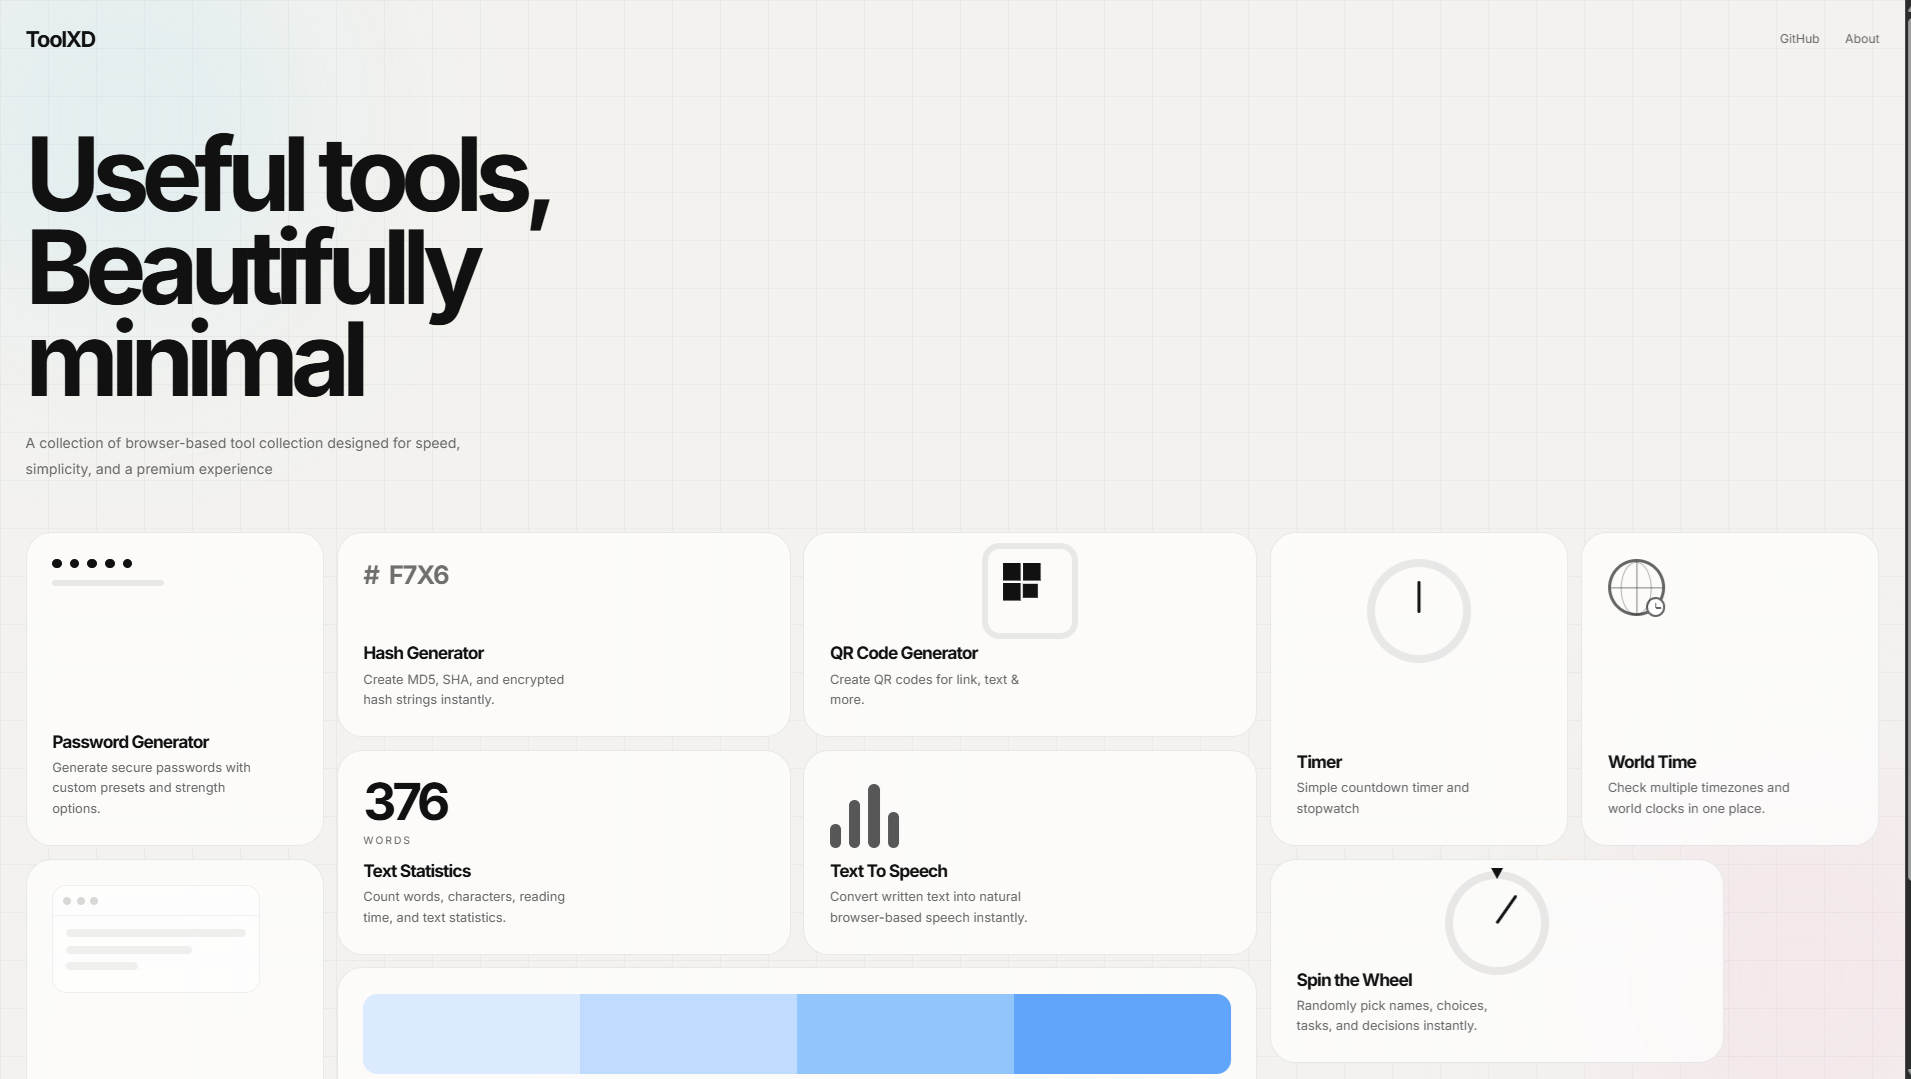
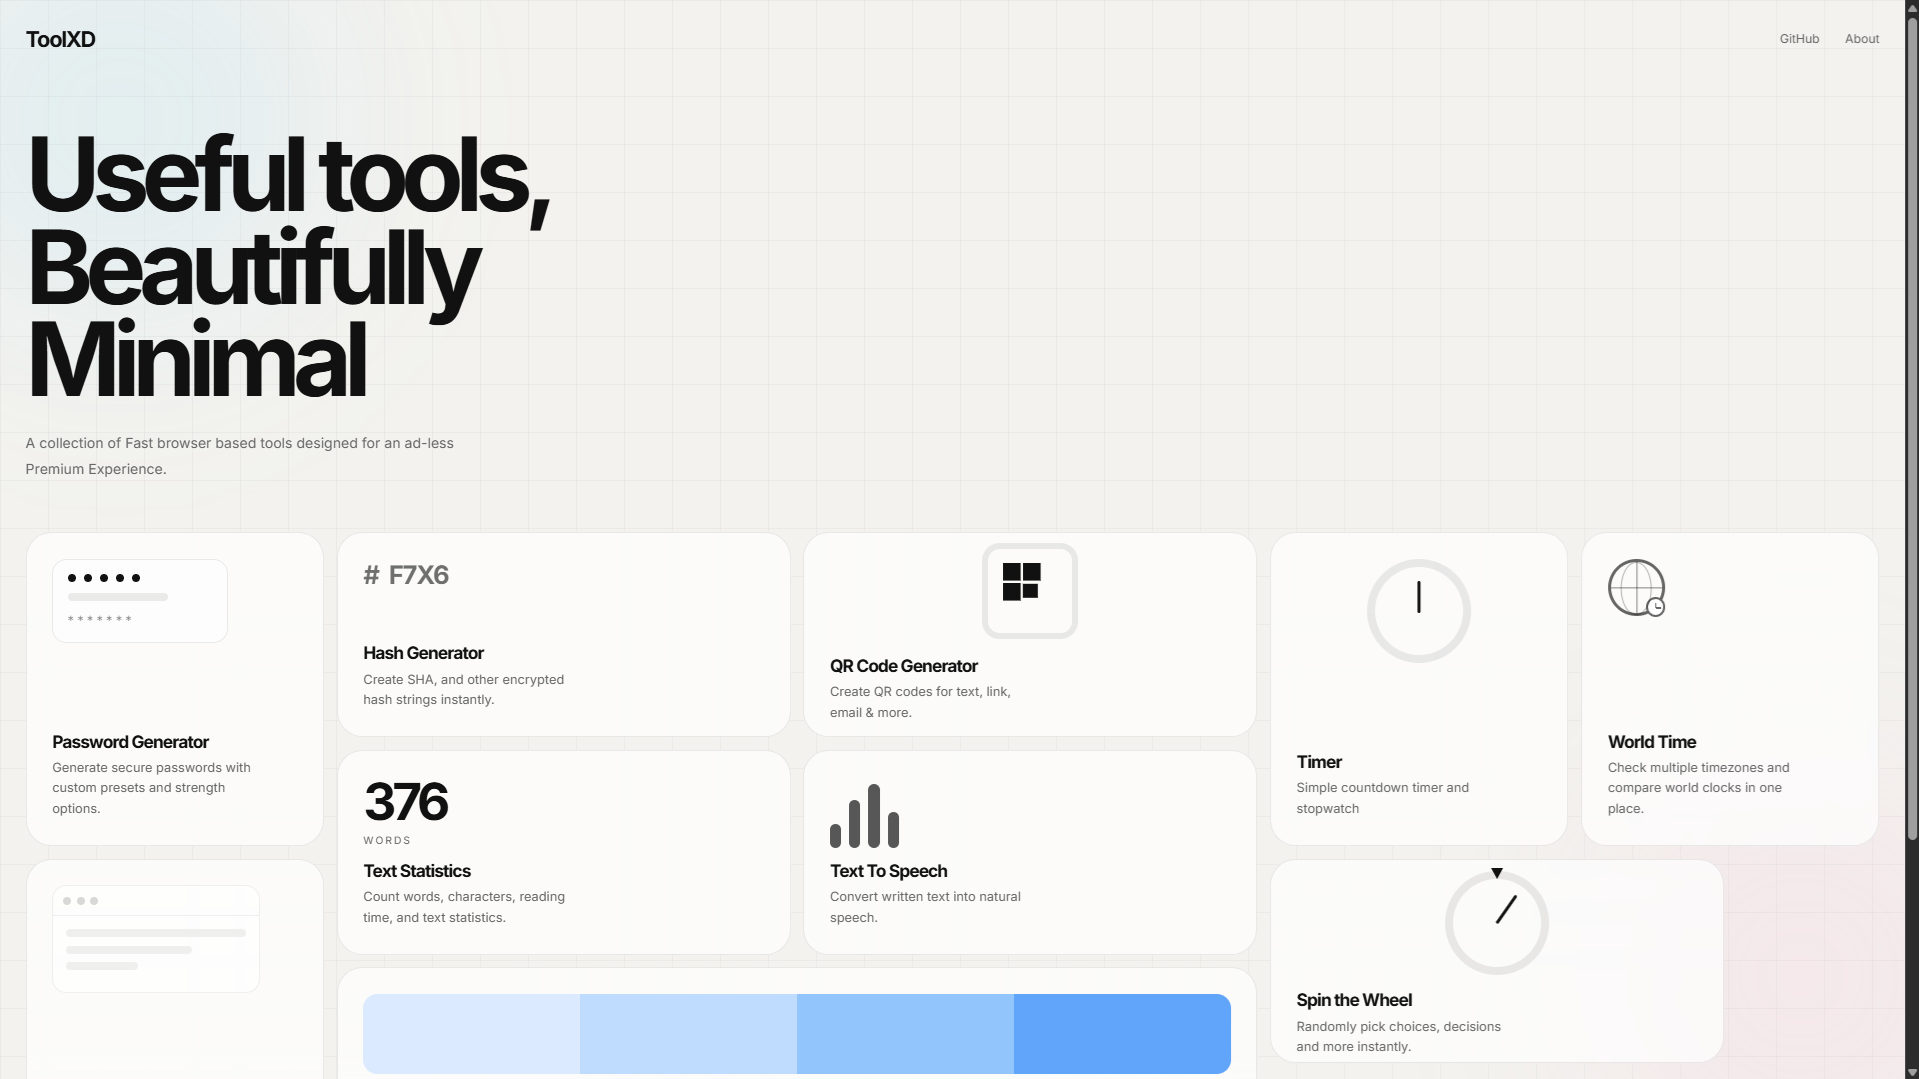
Improved typography and added footer in main HTML

diff --git a/css/card.css b/css/card.css
@@ -27,15 +27,18 @@
   border: 1px solid var(--border);
   backdrop-filter: blur(var(--blur));
   transition: var(--transition);
+  display: flex;
+  flex-direction: column;
 }
 .card:hover {
   transform: translateY(-12px);
   border-color: rgba(0, 0, 0, 0.12);
 }
+.preview {
+  flex: 1;
+}
 .content {
-  position: absolute;
-  left: 2rem;
-  bottom: 2rem;
+  margin-top: auto;
 }
 .content h3 {
   font-size: 1.35rem;
@@ -48,26 +51,36 @@
   color: var(--muted);
 }
 .password-preview {
+  width: 220px;
+  padding: 18px;
+  border-radius: 18px;
+  border: 1px solid rgba(0,0,0,.08);
+  background: rgba(255,255,255,.55);
   display: flex;
   flex-direction: column;
   gap: 14px;
-  width: 140px;
 }
 .password-dots {
   display: flex;
   gap: 10px;
 }
 .password-dots span {
-  width: 12px;
-  height: 12px;
+  width: 10px;
+  height: 10px;
   border-radius: 50%;
   background: #111;
 }
 .password-line {
-  width: 100%;
-  height: 8px;
-  border-radius: 999px;
-  background: rgba(0, 0, 0, 0.08);
+  height: 10px;
+  width: 69%;
+  border-radius: 69px;
+  background: rgba(0,0,0,.08);
+}
+.password-preview::after {
+  content: "*******";
+  font-size: 1rem;
+  letter-spacing: .25em;
+  color: #11111180;
 }
 .timer-preview {
   display: flex;

diff --git a/index.html b/index.html
@@ -30,8 +30,9 @@
         </div>
       </nav>
       <section class="hero">
-        <h1> Useful tools, <br> Beautifully minimal </h1>
-        <p class="hero-text"> A collection of browser-based tool collection designed for speed, simplicity, and a premium experience </p>
+        <h1> Useful tools, <br> Beautifully Minimal </h1>
+        <p class="hero-text"> A collection of Fast browser based tools designed for an ad-less 
+          Premium Experience. </p>
       </section>
     </header>
 
@@ -64,7 +65,7 @@
     </div>
     <div class="content">
       <h3>Hash Generator</h3>
-      <p>Create MD5, SHA, and encrypted hash strings instantly.</p>
+      <p>Create SHA, and other encrypted hash strings instantly.</p>
     </div>
   </a>
 
@@ -77,7 +78,7 @@
     </div>
     <div class="content">
       <h3>QR Code Generator</h3>
-      <p>Create QR codes for link, text & more.</p>
+      <p>Create QR codes for text, link, email & more. </p>
     </div>
   </a>
 
@@ -103,7 +104,7 @@
     </div>
     <div class="content">
       <h3>World Time</h3>
-      <p>Check multiple timezones and world clocks in one place.</p>
+      <p>Check multiple timezones and compare world clocks in one place.</p>
     </div>
   </a>
 
@@ -129,7 +130,7 @@
     </div>
     <div class="content">
       <h3>Text To Speech</h3>
-      <p>Convert written text into natural browser-based speech instantly.</p>
+      <p>Convert written text into natural speech.</p>
     </div>
   </a>
 
@@ -149,7 +150,7 @@
     </div>
     <div class="content">
       <h3>Metadata Viewer</h3>
-      <p>Inspect EXIF and hidden information from uploaded files.</p>
+      <p>Inspect hidden information from uploaded files.</p>
     </div>
   </a>
 
@@ -163,7 +164,7 @@
     </div>
     <div class="content">
       <h3>Spin the Wheel</h3>
-      <p>Randomly pick names, choices, tasks, and decisions instantly.</p>
+      <p>Randomly pick choices, decisions and more instantly.</p>
     </div>
   </a>
 
@@ -182,5 +183,10 @@
   </a>
 
 </main>
+
+<footer>
+  <p>Swaznil  XD</p>
+</footer>
+
 </body>
 </html>

diff --git a/css/style.css b/css/style.css
@@ -27,6 +27,16 @@ header {
   line-height: 1.8;
   color: var(--muted);
 }
+footer {
+  position: relative;
+  z-index: 2;
+  padding: 2rem;
+  display: flex;
+  align-items: center;
+  justify-content: right;
+  color: var(--muted);
+  font-size: 0.9rem;
+}
 
 @media (max-width: 900px) {
   .hero {
@@ -38,5 +48,10 @@ header {
   .content {
     left: 1.5rem;
     bottom: 1.5rem;
+  }
+    footer {
+    flex-direction: column;
+    gap: 1rem;
+    text-align: center;
   }
 }